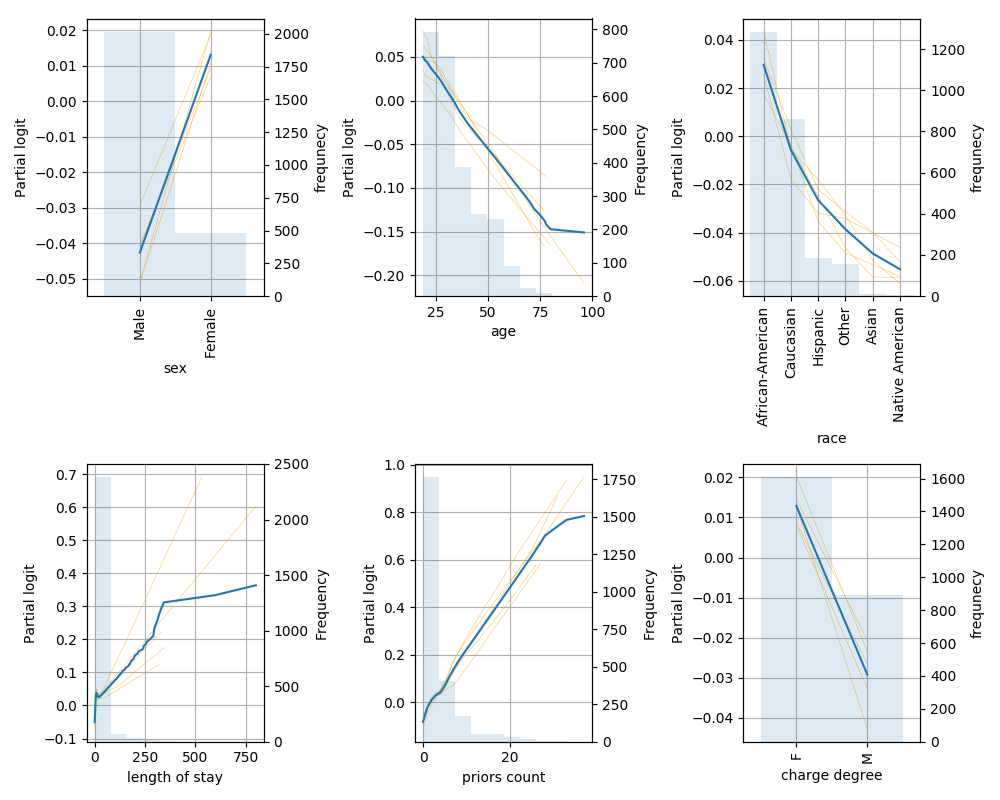
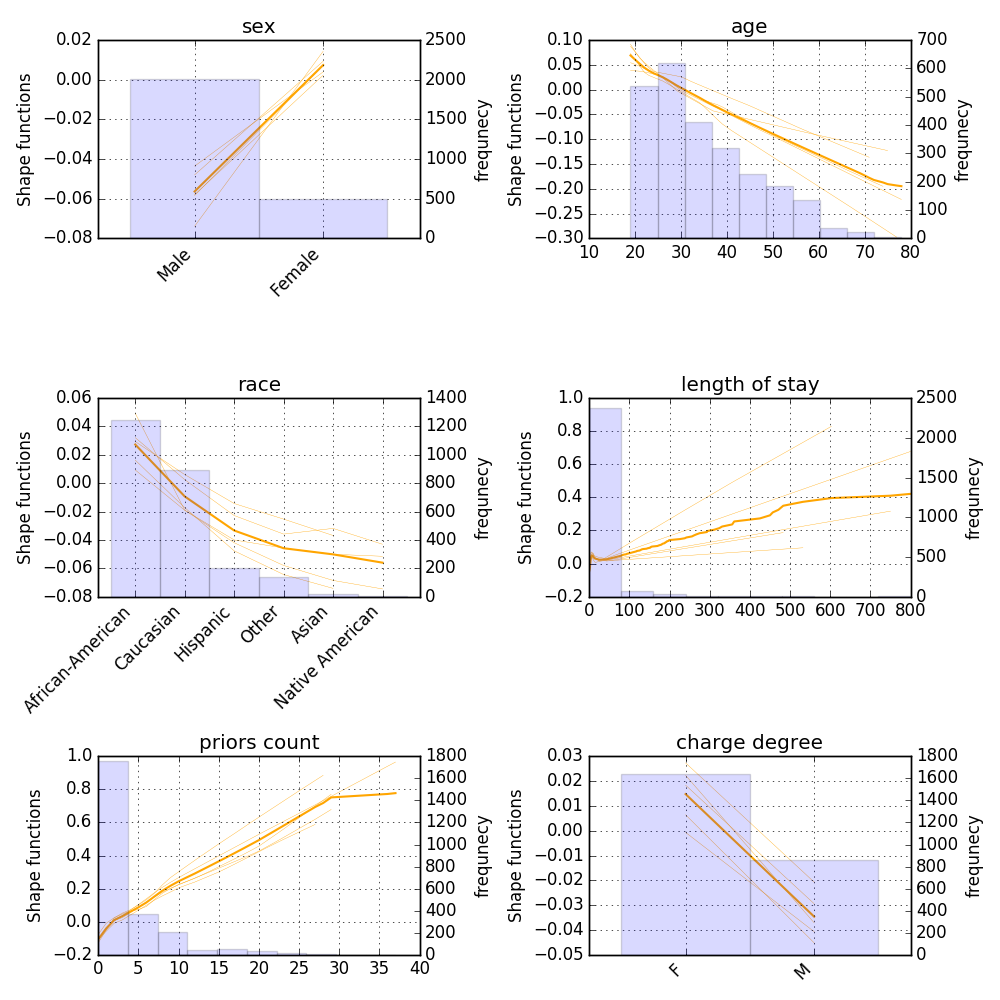
shape plots

diff --git a/src/plots.py b/src/plots.py
@@ -35,26 +35,25 @@ def plot_shape_functions(results, features, nrows = 1, size = (8, 10), fname = N
     n = len(features)
     ncols = n // nrows
     plt.clf()
+    plt.style.use('classic')
     fig, axes = plt.subplots(nrows = nrows, ncols = ncols, figsize = size)
     for i, feature in enumerate(features):
         r = i // ncols
         c = i % ncols
         
-        twin = axes[r, c].twinx()
-
-        if results[feature].dtype == object:
-            xlab_rot = 90
-            agg_plot = 'bar'
-        else:
-            xlab_rot = 0
-            agg_plot = 'hist'
-
-
         results.sort_values(feature, inplace = True)
         for _, res in results.groupby('replicate'):
-            x = res[feature]
-            y = res[feature + '_partial']
-            axes[r, c].plot(x, y, '-', color = 'orange', lw = 0.25)
+            x = (
+                res[[feature, feature + '_partial']]
+                .drop_duplicates(subset = feature)
+                .set_index(feature)
+            )
+
+            x.plot.line(
+                ax = axes[r, c], 
+                color = 'orange', 
+                lw = 0.25
+            )
 
         x = results.pivot_table(
             index = feature, 
@@ -66,27 +65,42 @@ def plot_shape_functions(results, features, nrows = 1, size = (8, 10), fname = N
             x
             .interpolate()
             .mean(axis = 1)
+            .rename(feature + '_partial')
             .sort_index()
         )
 
-        x.plot(ax = axes[r, c], rot=xlab_rot)
+        x.plot.line(
+            ax = axes[r, c], 
+            color = 'orange', 
+            lw = 1.5
+        )
         
-        # Plot frequencies
+        # Plot frequencies        
+        twin = axes[r, c].twinx()
         x = results[feature]
-        if agg_plot == 'bar':
+        if x.dtype == object:
             x.value_counts().plot.bar(
                 width = 1, 
                 alpha = .15, 
-                ax = twin
+                ax = twin,
             )    
-            twin.set_ylabel('frequnecy')
 
-        elif agg_plot == 'hist':           
-            x.plot.hist(alpha = .15, ax = twin)
+            labs = [l.get_text() for l in twin.get_xticklabels()]
+            axes[r, c].set_xticklabels(labs, rotation=45, ha='right')
+            
+        else:
+            x.plot.hist(
+                alpha = .15, 
+                ax = twin
+            )
+        twin.set_ylabel('frequnecy')
+
                     
         axes[r, c].grid(True)
         axes[r, c].set_ylabel('Shape functions')
-        axes[r, c].set_xlabel(feature.replace('_', ' '))
+        axes[r, c].xaxis.label.set_visible(False)
+        axes[r, c].set_title(feature.replace('_', ' '))
+        axes[r, c].get_legend().remove()
 
     plt.tight_layout()
     if fname is not None:

diff --git a/compas_demo.py b/compas_demo.py
@@ -102,4 +102,5 @@ def main(args):
 if __name__ == '__main__':
     with open('./config.yml', 'r') as f:
         args = yaml.safe_load(f)
-    main(args['compas'])
+        args = args['compas']
+    main(args)

diff --git a/README.md b/README.md
@@ -38,7 +38,7 @@ python compas_demo.py
 This executes a routine where NAM model is repeatedly initialized, trained and subsequently tested using randomly selected subsets. Obtained results include visualization of the receiver oparating characteristic curve (ROC) and visualization of the shape functions learned by individual NAMs. 
 </p>
 
-![compas_roc](results/compas_roc.png?raw=true "COMPAS - ROC curve"){width=25%}
+![compas_roc](results/compas_roc.png?raw=true "COMPAS - ROC curve")
 
 <p align="justify">
 Shape functions describe how individual features affect prediction of the model. Thin lines represent different shape functions from the individual NAMs, to show their agreement. The thick lines represent aggregated shape function. Histograms in the background shows distribution of values of the individual features.
